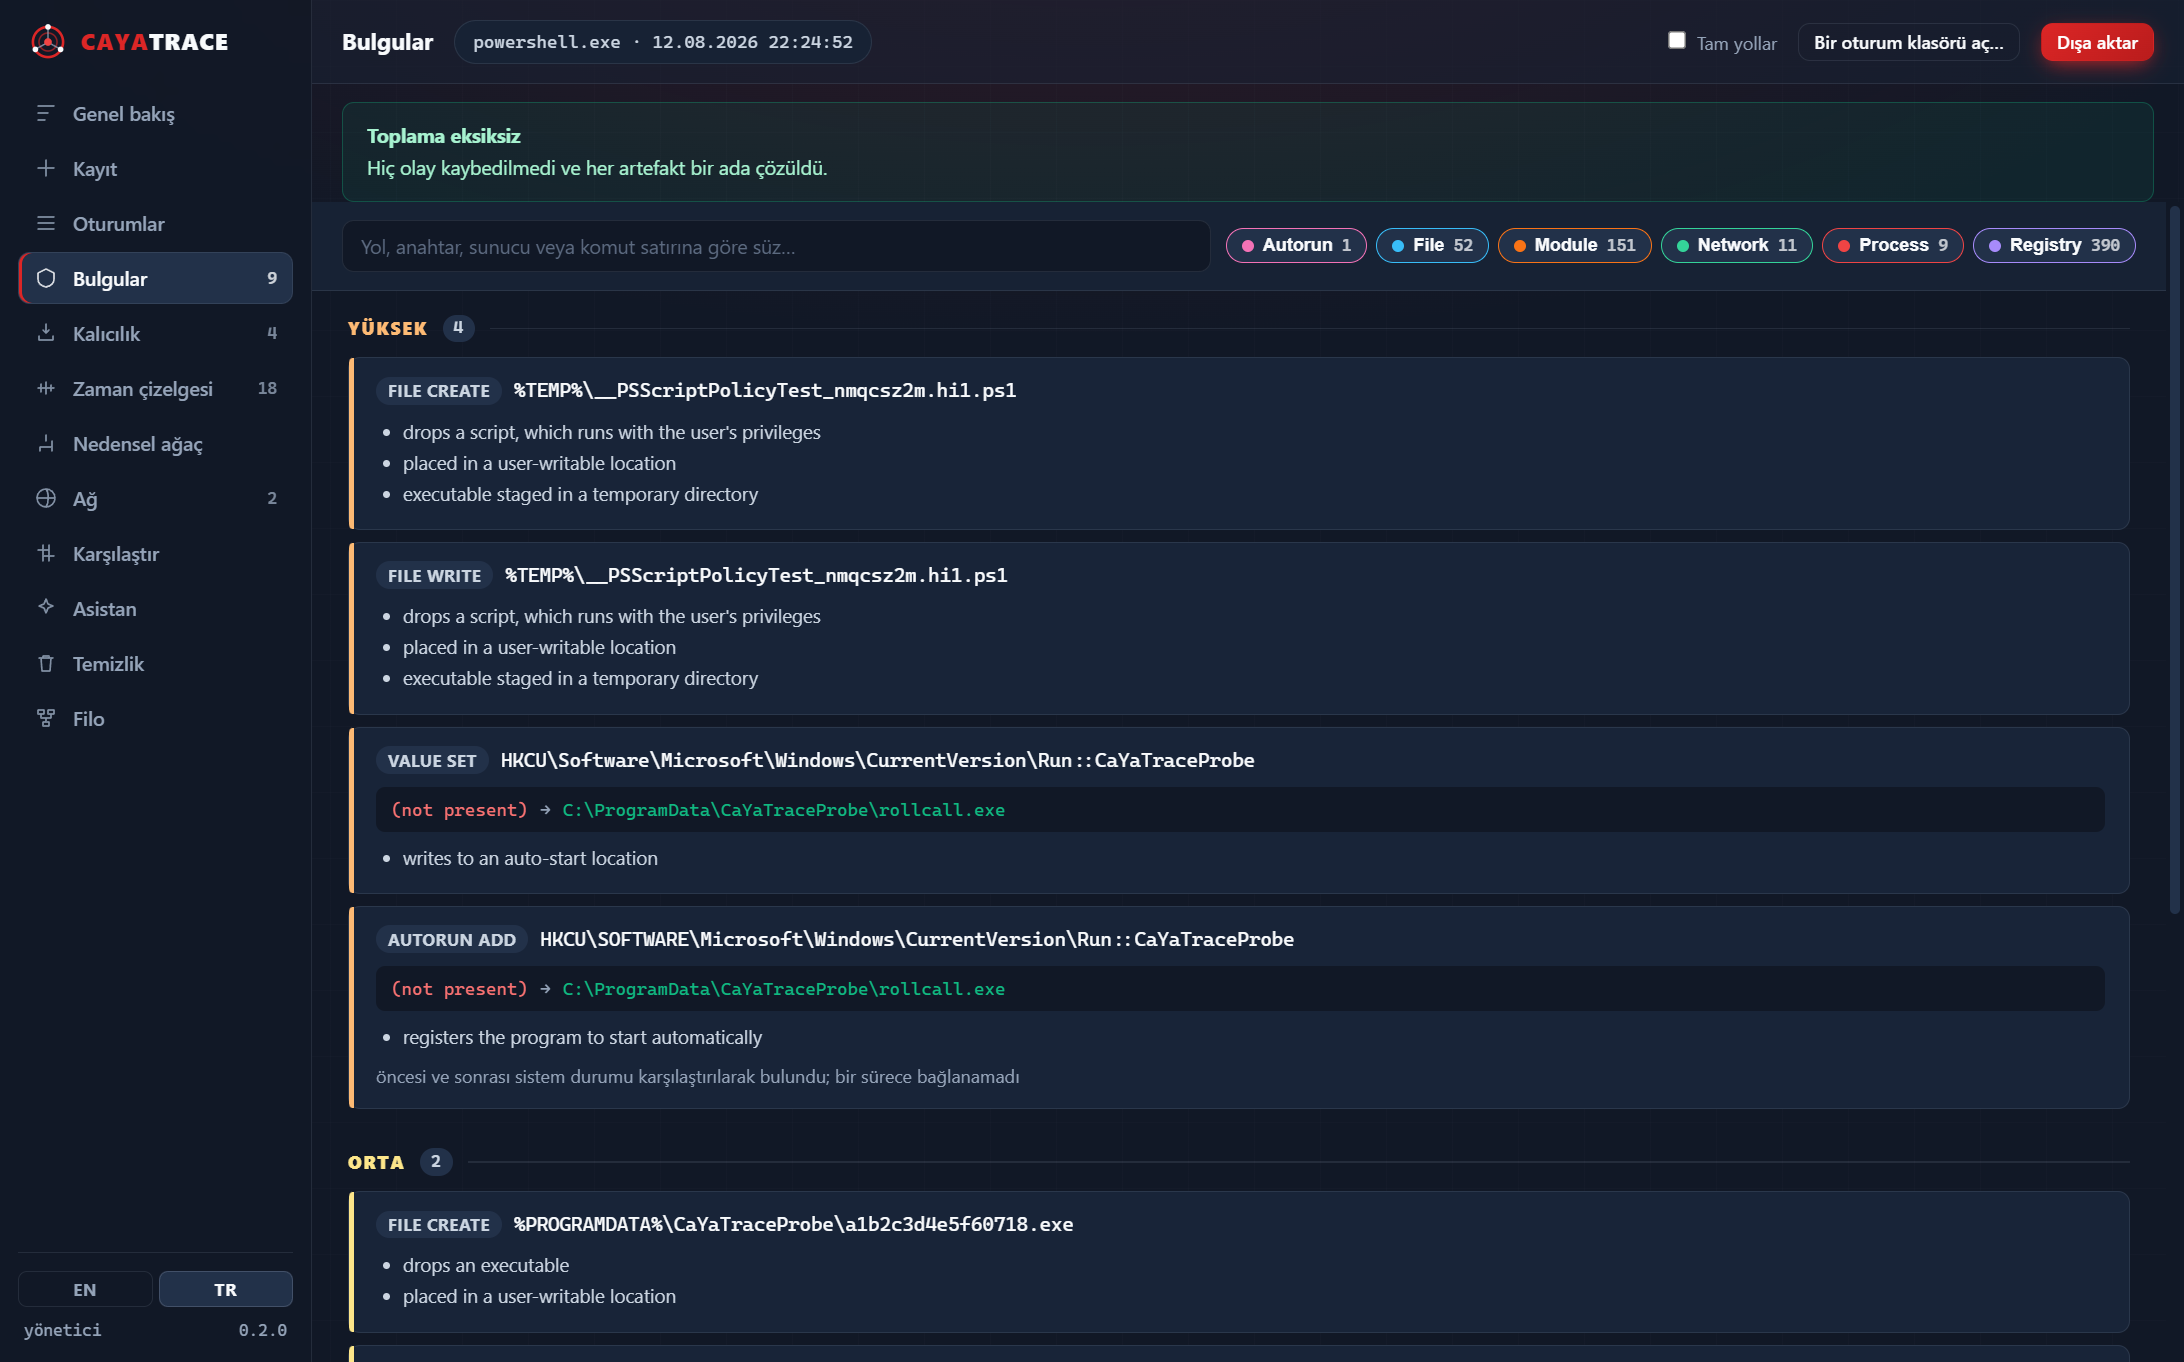
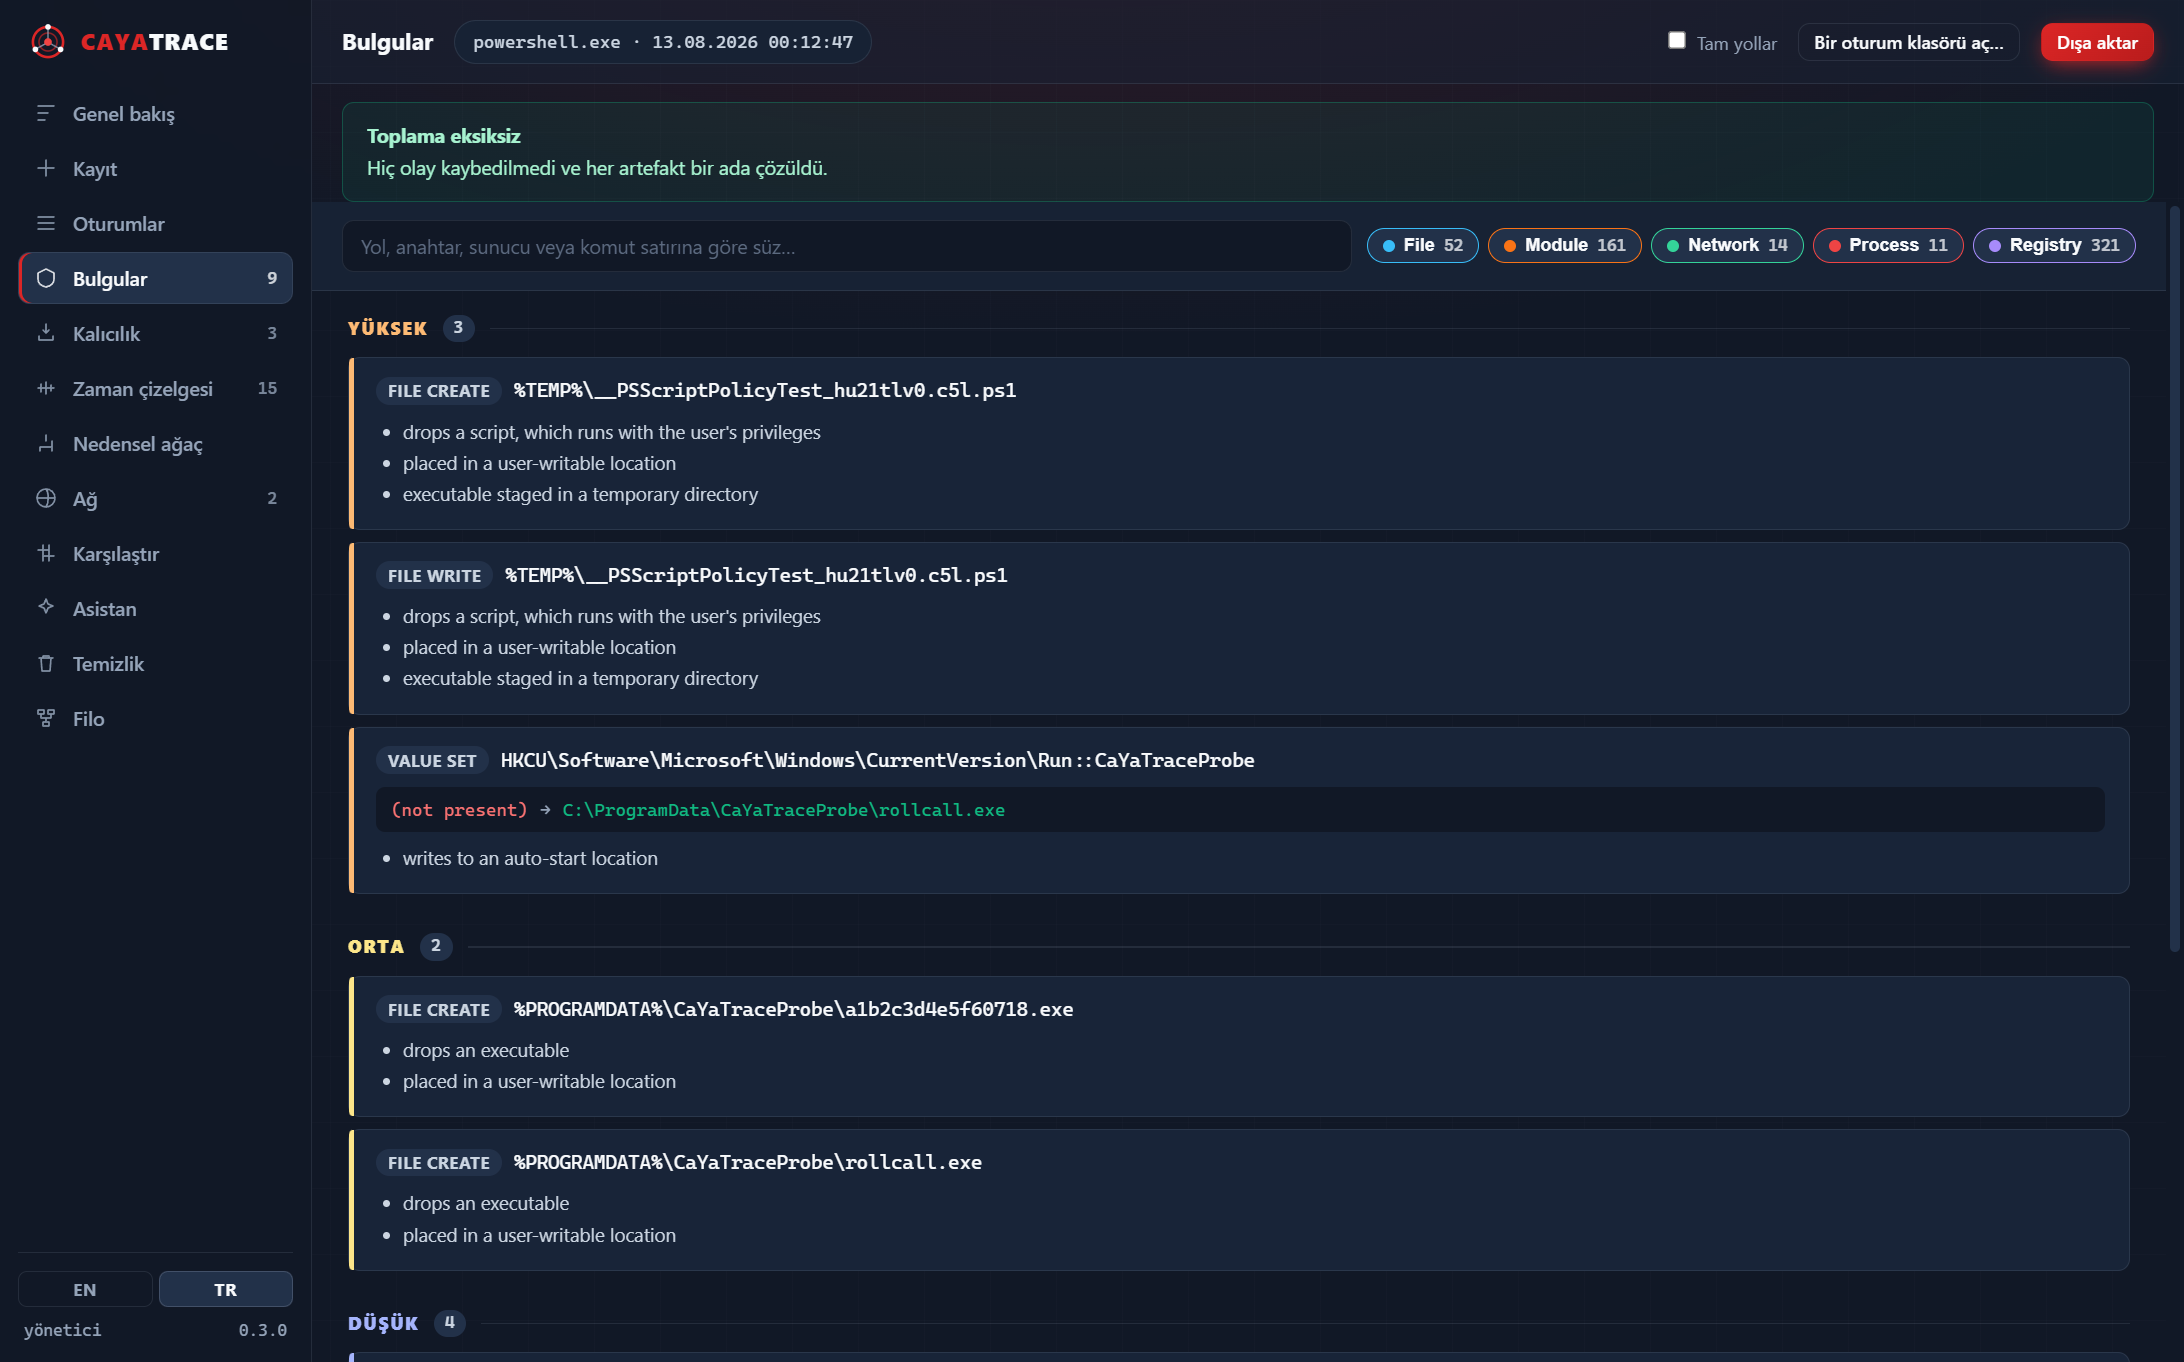
Write down 0.3.0, and refresh what the documentation shows
Screenshots regenerated against a recording made with the shipping binary, so
the network view in the documentation shows a real conversation between two
processes on one machine — named at both ends, with the note explaining why its
contents are not there.

diff --git a/CHANGELOG.md b/CHANGELOG.md
@@ -4,6 +4,52 @@ All notable changes to CaYaTrace are recorded here. Format follows
 [Keep a Changelog](https://keepachangelog.com/en/1.1.0/); versioning follows
 [Semantic Versioning](https://semver.org/).
 
+## [0.3.0] — 2026-08-13
+
+Everything here came from someone using 0.2.0 and reporting what did not work.
+
+### Added
+
+**Conversations between processes on one machine.** A subject opened four connections to
+`127.0.0.1` and the network view showed four rows of `0 B` — no contents, no peer, nothing
+to conclude from. There was nothing to fix in the packet path: the Windows packet monitor
+observes network adapters and loopback traffic crosses none of them.
+
+Winsock does see it. A new collector on the Ancillary Function Driver reports, for
+conversations that never leave the machine: the process, the socket, both addresses, bytes
+each way, sends and receives, and the program at the other end. Pairing works from either
+side, and ports already being listened on when recording starts are read from the
+connection table, because a service that came up at boot emits no bind event to observe.
+It does not report the bytes, and says so — the provider carries a pointer into the
+sending process, not a copy, and following it would mean reading another process's memory
+while it runs.
+
+**Assistant controls.** The chat has its own model picker with "no model" first, and a stop
+button.
+
+### Fixed
+
+- **The assistant hung whenever a model was configured.** `GenerateAsync` takes an `object`
+  in third position, so passing a cancellation token there compiled, boxed the token into
+  the response-format field, and left the real token defaulted — the request could not be
+  cancelled and its own timeout never fired.
+- **The exported report offered HTML and Text and wrote JSON for both.** It now produces
+  what was asked for, including a copy of itself for HTML.
+- **The save dialog appeared to be writing an executable.** A session recorded from
+  `Setup.exe` is named after it, so the suggested name was `Setup.exe.html` — and Windows
+  hides the last known extension.
+- **Conversation contents were unreachable in an exported report.** The bodies lived in the
+  session database and the report has no engine behind it; a bounded preview now travels
+  with the report at full depth.
+- **Remediate was disabled until a session was loaded**, which made the one workflow
+  packages exist for — carrying one to a machine that has never recorded anything —
+  unreachable from the window.
+- **A recording reported 59.7% of registry operations unresolved while every change had
+  been named.** Reads were resolved-or-discarded on the spot and counted against the same
+  figure. They are parked and re-resolved like everything else now, dropped before changes
+  are when memory runs short, and measured separately — so the figure answers "is the
+  evidence complete" rather than "how much of everything the machine did could be named".
+
 ## [0.2.0] — 2026-08-12
 
 Recorded the same installer with two other tools at the same time, on the same machine,
@@ -182,5 +228,6 @@ Embedding removal payloads into the executable was tested and rejected: patching
 into a .NET single-file bundle truncated a 67 MB host to 9.6 MB and corrupted it. Packages
 ship as `.ctpkg` sidecars. See [PACKAGE-FORMAT.md](docs/PACKAGE-FORMAT.md).
 
+[0.3.0]: https://github.com/CaYatur/CaYaTrace/releases/tag/v0.3.0
 [0.2.0]: https://github.com/CaYatur/CaYaTrace/releases/tag/v0.2.0
 [0.1.0]: https://github.com/CaYatur/CaYaTrace/releases/tag/v0.1.0

diff --git a/README.tr.md b/README.tr.md
@@ -7,7 +7,7 @@
 [![Lisans: MIT](https://img.shields.io/badge/Lisans-MIT-dc2626.svg)](LICENSE)
 [![Platform](https://img.shields.io/badge/platform-Windows%2010%20%7C%2011-111826.svg)](#gereksinimler)
 [![.NET](https://img.shields.io/badge/.NET-8.0-182438.svg)](#gereksinimler)
-[![Durum](https://img.shields.io/badge/durum-0.2.0%20önizleme-b91c1c.svg)](docs/ROADMAP.md)
+[![Durum](https://img.shields.io/badge/durum-0.3.0%20önizleme-b91c1c.svg)](docs/ROADMAP.md)
 
 [English README](README.md) · [Mimari](docs/ARCHITECTURE.md) · [Güvenlik](SECURITY.md) · [Yol haritası](docs/ROADMAP.md)
 
@@ -72,7 +72,7 @@ hiç çalışmadığı bir cihaza götürüp orada temizlik yapabilirsiniz — h
 - **Cihazı bozamayacak bir kaldırma.** Geçersiz kılınamayan yasak listesi, parmak izi
   doğrulaması, silme yerine karantina, geri alma günlüğü ve varsayılan olarak prova modu.
 
-## Durum — 0.2.0 önizleme
+## Durum — 0.3.0 önizleme
 
 Bu erken bir sürüm. Bugün gerçekten çalışan ile yalnızca tasarlanmış olan dürüstçe ayrılmıştır:
 
@@ -105,6 +105,7 @@ Bu erken bir sürüm. Bugün gerçekten çalışan ile yalnızca tasarlanmış o
 | Oturuma soru sorma: yanıtlar kayıttan hesaplanır, model yalnızca yeniden ifade eder | ✅ çalışıyor |
 | Kaldırma ilerlemesi, kendini koruma etkisizleştirme, karantina: tut/geri koy/sil | ✅ çalışıyor |
 | Filo: pencereden katılma, makine başına canlı görünüm, uzaktan süreç/servis durdurma | ✅ çalışıyor |
+| Bu makinedeki süreçler arası konuşmalar; her iki uçtaki program adıyla | ✅ çalışıyor |
 
 ## Çalışma tezgâhı
 

diff --git a/README.md b/README.md
@@ -7,7 +7,7 @@
 [![License: MIT](https://img.shields.io/badge/License-MIT-dc2626.svg)](LICENSE)
 [![Platform](https://img.shields.io/badge/platform-Windows%2010%20%7C%2011-111826.svg)](#requirements)
 [![.NET](https://img.shields.io/badge/.NET-8.0-182438.svg)](#requirements)
-[![Status](https://img.shields.io/badge/status-0.2.0%20preview-b91c1c.svg)](docs/ROADMAP.md)
+[![Status](https://img.shields.io/badge/status-0.3.0%20preview-b91c1c.svg)](docs/ROADMAP.md)
 
 [Türkçe README](README.tr.md) · [Architecture](docs/ARCHITECTURE.md) · [Security](SECURITY.md) · [Roadmap](docs/ROADMAP.md)
 
@@ -69,7 +69,7 @@ machine before anything is touched.
 - **Removal that cannot brick the machine.** Non-overridable deny list, fingerprint
   verification, quarantine instead of delete, rollback journal, dry run by default.
 
-## Status — 0.2.0 preview
+## Status — 0.3.0 preview
 
 This is an early release. What is real today versus designed is tracked honestly:
 
@@ -102,6 +102,7 @@ This is an early release. What is real today versus designed is tracked honestly
 | Ask the session: answers computed from the recording, a model only rewords them | ✅ working |
 | Removal progress, self-protection disarming, and quarantine keep/restore/delete | ✅ working |
 | Fleet: join from the window, per-machine live view, remote stop of a process or service | ✅ working |
+| Conversations between processes on this machine, with the program at each end | ✅ working |
 
 ## The workbench
 
